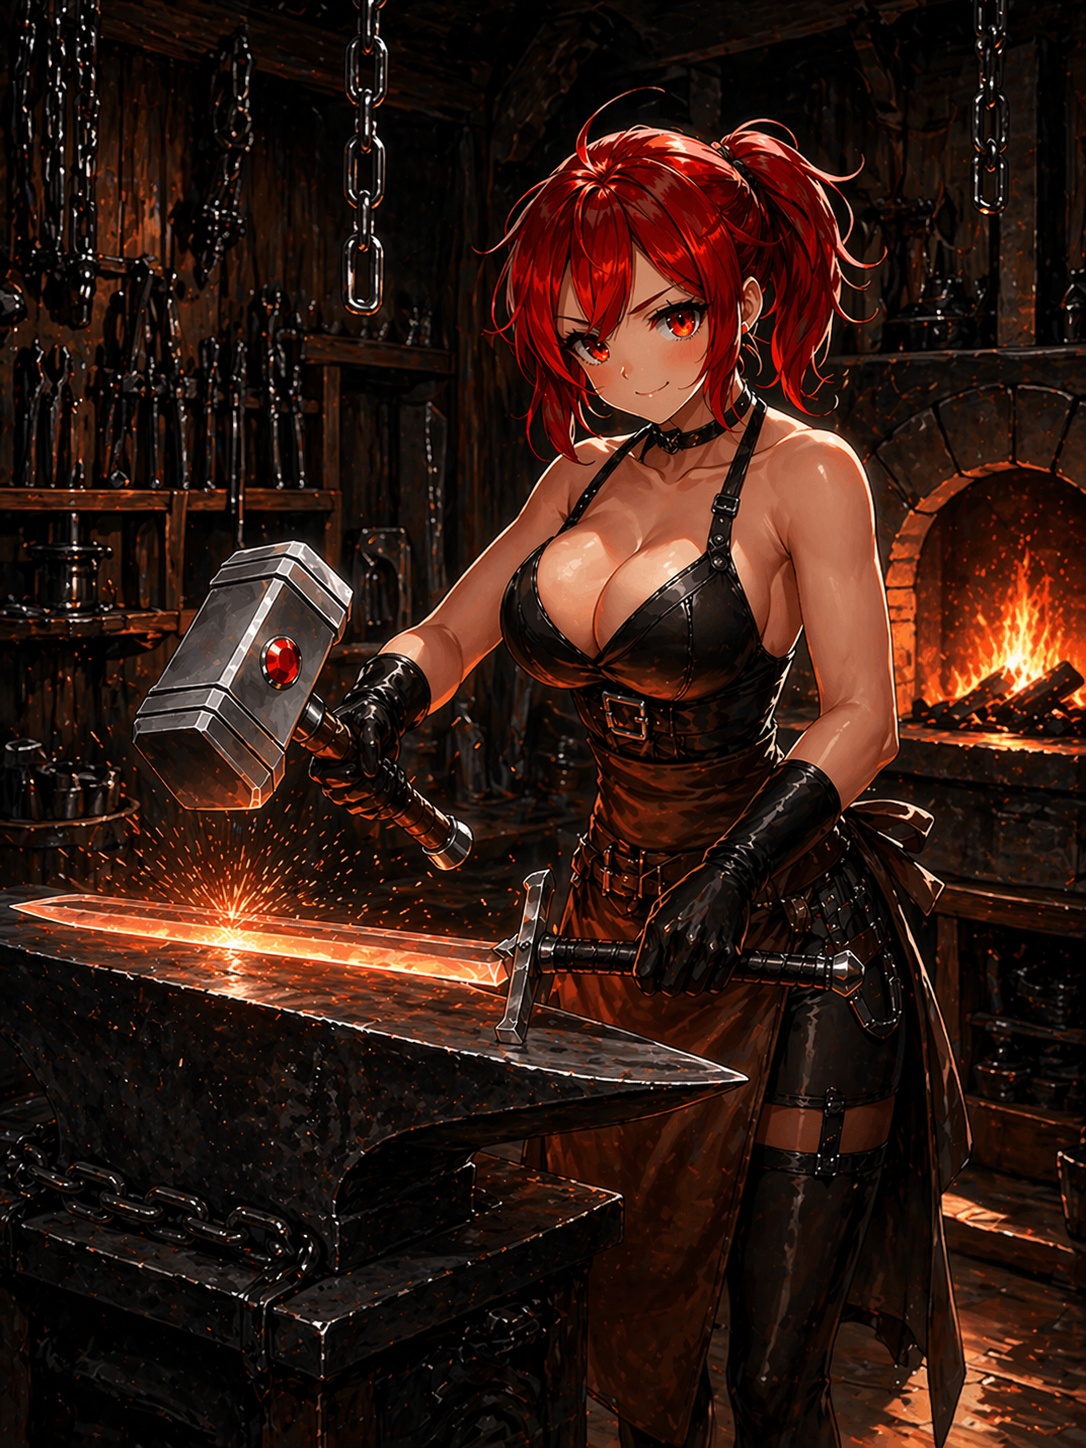
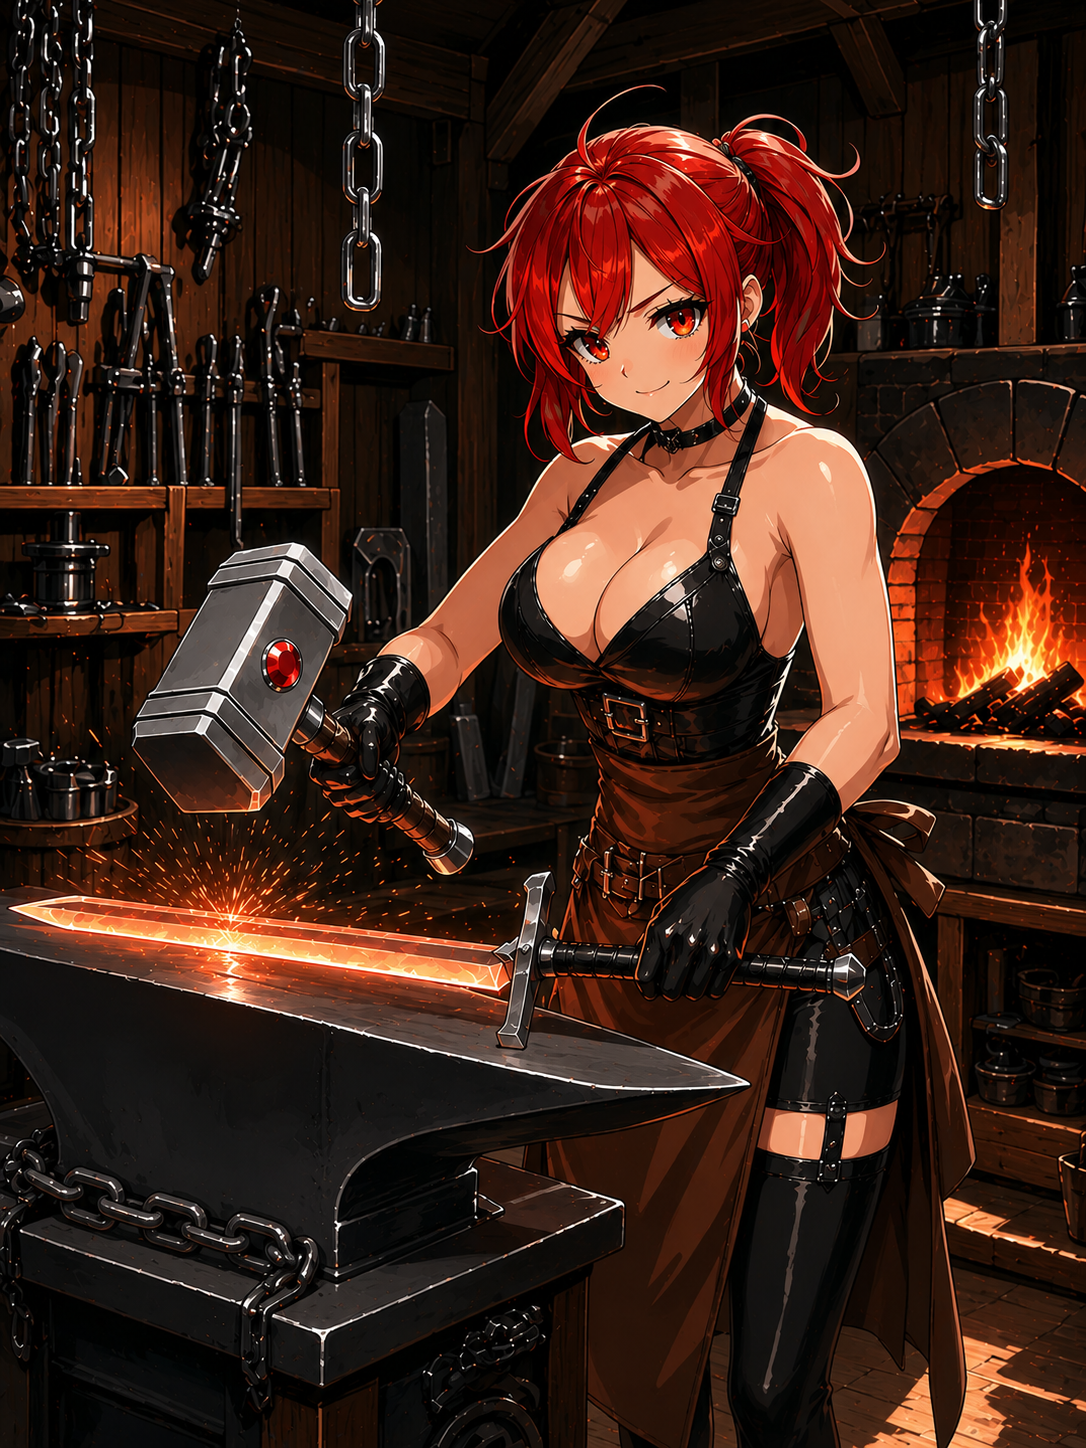
Add files via upload

diff --git a/styles.css b/styles.css
@@ -83,7 +83,7 @@ a {
 
 .logo {
         width: auto;
-        max-width: 260px;  // Adjust this value based on how it fits on mobile devices
+        max-width: 260px;  /* Adjust this value based on how it fits on mobile devices */
         height: auto;
 		margin-left: 40px;
 }
@@ -246,9 +246,9 @@ img {
 }
 
 body.no-scroll {
-    overflow: hidden !important;  // Use important to ensure overriding any other style
-    position: fixed;  // Can also help in completely stopping the scroll
-    width: 100%;  // Maintain full width
+    overflow: hidden !important;  /* Use important to ensure overriding any other style */
+    position: fixed;  /* Can also help in completely stopping the scroll */
+    width: 100%;  /* Maintain full width */
 }
 
 .menu-overlay.active ~ nav .hamburger,
@@ -1326,3 +1326,81 @@ body.no-scroll {
     }
 }
 
+
+/* ===== Downloads platform headers ===== */
+.script-platform-header {
+    display: flex;
+    align-items: center;
+    justify-content: flex-start;
+    gap: 18px;
+    width: 100%;
+    clear: both;
+    margin: 10px 0 18px 0;
+}
+
+.platform-header-logo {
+    width: 60px;
+    height: 60px;
+    object-fit: contain;
+    flex: 0 0 auto;
+}
+
+.apple-platform-logo {
+    width: 54px;
+    height: 54px;
+}
+
+.platform-header-copy {
+    display: flex;
+    flex-direction: column;
+    justify-content: center;
+    min-width: 0;
+}
+
+.platform-header-title {
+    margin: 0 0 4px 0 !important;
+    text-align: left !important;
+}
+
+.platform-header-subtitle {
+    margin: 0;
+    color: var(--muted);
+    font-size: 1rem;
+    line-height: 1.25;
+    text-align: left;
+}
+
+@media (max-width: 700px) {
+    .script-platform-header {
+        gap: 14px;
+        margin: 8px 0 14px 0;
+    }
+
+    .platform-header-logo {
+        width: 50px;
+        height: 50px;
+    }
+
+    .apple-platform-logo {
+        width: 46px;
+        height: 46px;
+    }
+
+    .platform-header-subtitle {
+        font-size: 0.95rem;
+    }
+}
+
+
+/* ===== Platform header spacing refinement ===== */
+.script-platform-header {
+    margin-top: 34px !important;
+    margin-bottom: 6px !important;
+}
+
+@media (max-width: 700px) {
+    .script-platform-header {
+        margin-top: 26px !important;
+        margin-bottom: 6px !important;
+    }
+}

diff --git a/index.html b/index.html
@@ -136,6 +136,15 @@
         <h2>Downloads</h2>
     </div>
 
+	<div class="fade-in script-platform-header">
+		<img class="platform-header-logo" src="images/WindowsLogo.png" alt="Windows Logo">
+		<div class="platform-header-copy">
+			<h2 class="platform-header-title">Windows Scripts</h2>
+			<p class="platform-header-subtitle">PowerShell scripts for Windows systems.</p>
+		</div>
+	</div>
+
+
     <!-- Windows Gallery Section -->
 	<div class="gallery-container" id="windowsGallery">
 		<h3>Gallery For Windows Scripts</h3>
@@ -148,13 +157,6 @@
 	</div>
 	
 	<p>&nbsp;</p>
-		
-	<div class="fade-in">		
-	<h2 class="table-heading">Windows Scripts</h2>
-	</div>
-	<div class="fade-in">
-	<img class="table-logo" src="images/WindowsLogo.png" alt="Windows Logo">
-	</div>
 	<div class="fade-in">
 	<table class="downloads-table">
     <thead>
@@ -273,6 +275,15 @@
 
 	<div class="divider"></div>	
 	
+	
+	<div class="fade-in script-platform-header">
+		<img class="platform-header-logo apple-platform-logo" src="images/AppleLogo.png" alt="Apple Logo">
+		<div class="platform-header-copy">
+			<h2 class="platform-header-title">Mac Scripts</h2>
+			<p class="platform-header-subtitle">Shell scripts for macOS.</p>
+		</div>
+	</div>
+
 	<!-- Mac Gallery Section -->
 	<div class="gallery-container" id="macGallery">
     <h3>Gallery For Mac Scripts</h3>
@@ -295,14 +306,6 @@
 	</div>
 
 	<p>&nbsp;</p>
-
-
-	<div class="fade-in">
-	<h2 class="table-heading">Mac Scripts</h2>
-	</div>
-	<div class="fade-in">
-	<img class="table-logo" src="images/AppleLogo.png" alt="Apple Logo">
-	</div>
 	<div class="fade-in mac-install-panel">
 	<p class="mac-install-text">Copy and paste this command into Terminal to install the Melding Software Mac scripts.</p>
 	<p class="mac-install-text">After reopening Terminal, type MeldingSoftware anytime to load the list.</p>

diff --git a/javascript.js b/javascript.js
@@ -17,7 +17,7 @@ function toggleMenu() {
         overlay.classList.add('active');  // Add 'active' class to overlay
         body.classList.add('no-scroll');
         logo.style.pointerEvents = 'none';  // Disable pointer events on the logo
-        hamburger.style.pointer.events = 'none';  // Disable pointer events on the hamburger
+        hamburger.style.pointerEvents = 'none';  // Disable pointer events on the hamburger
     }
 }
 
@@ -34,7 +34,7 @@ window.addEventListener('resize', function() {
         if (overlay.classList.contains('active')) {
             overlay.style.display = 'none';
             overlay.classList.remove('active');
-            closeButton.style.display = 'none';
+            if (closeButton) closeButton.style.display = 'none';
         }
         hamburger.style.display = 'none';  // Ensure hamburger is hidden in desktop view
     } else {
